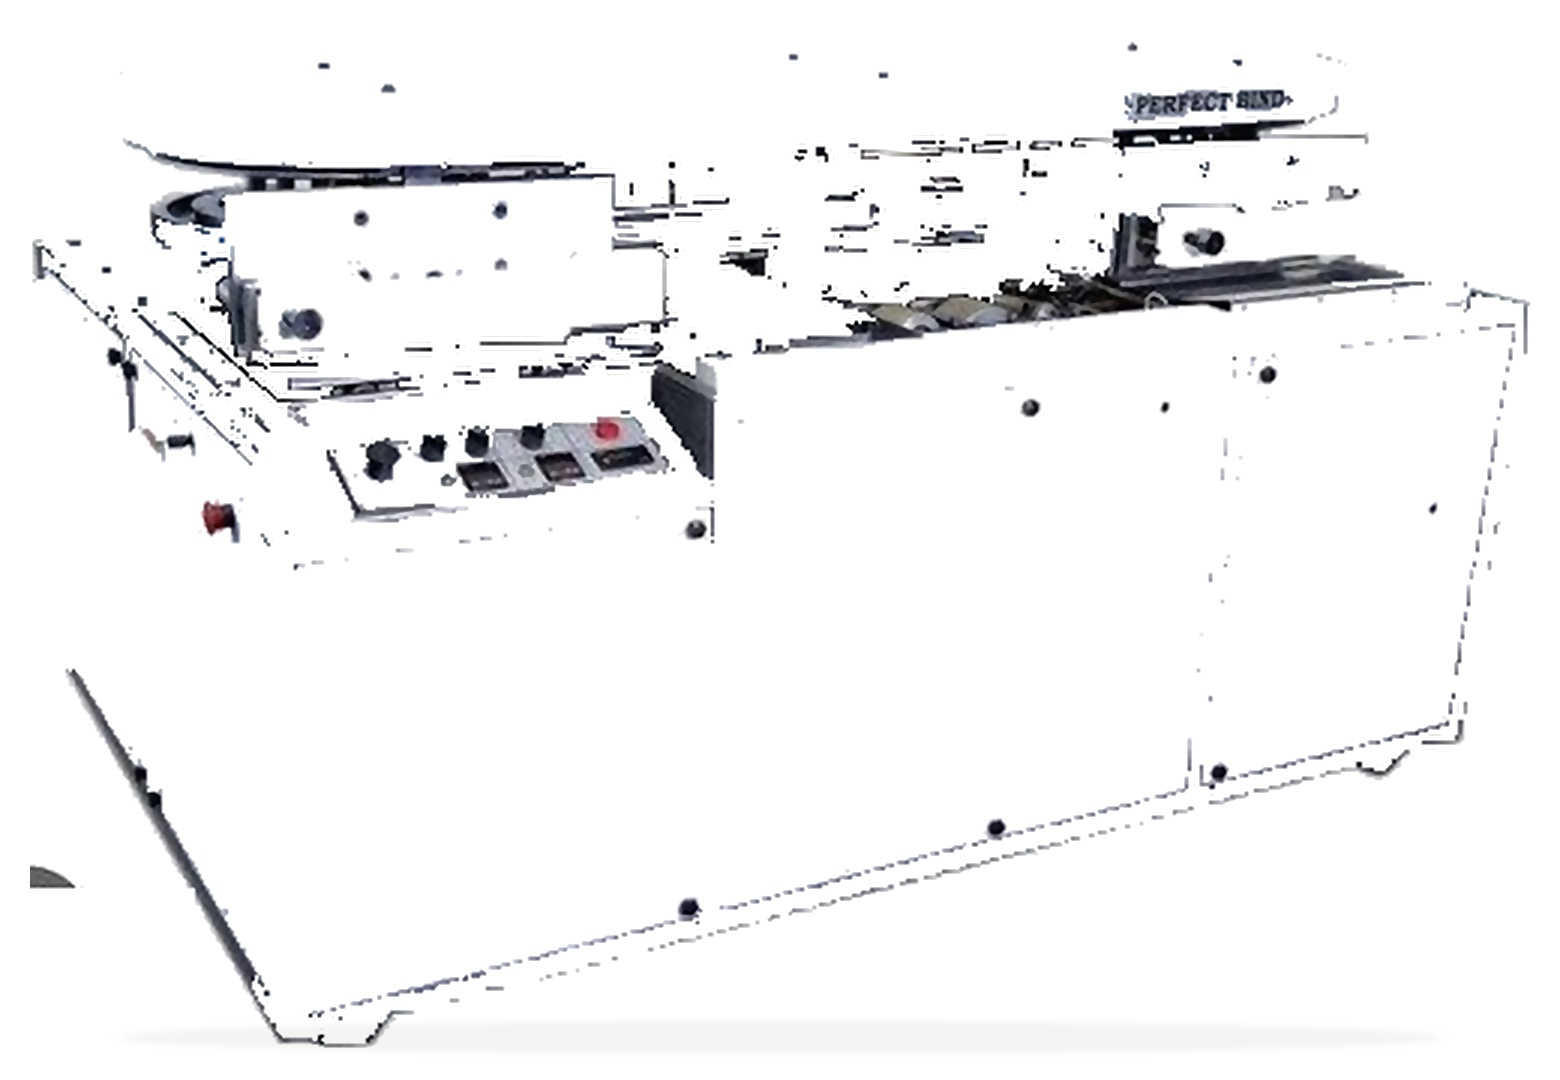
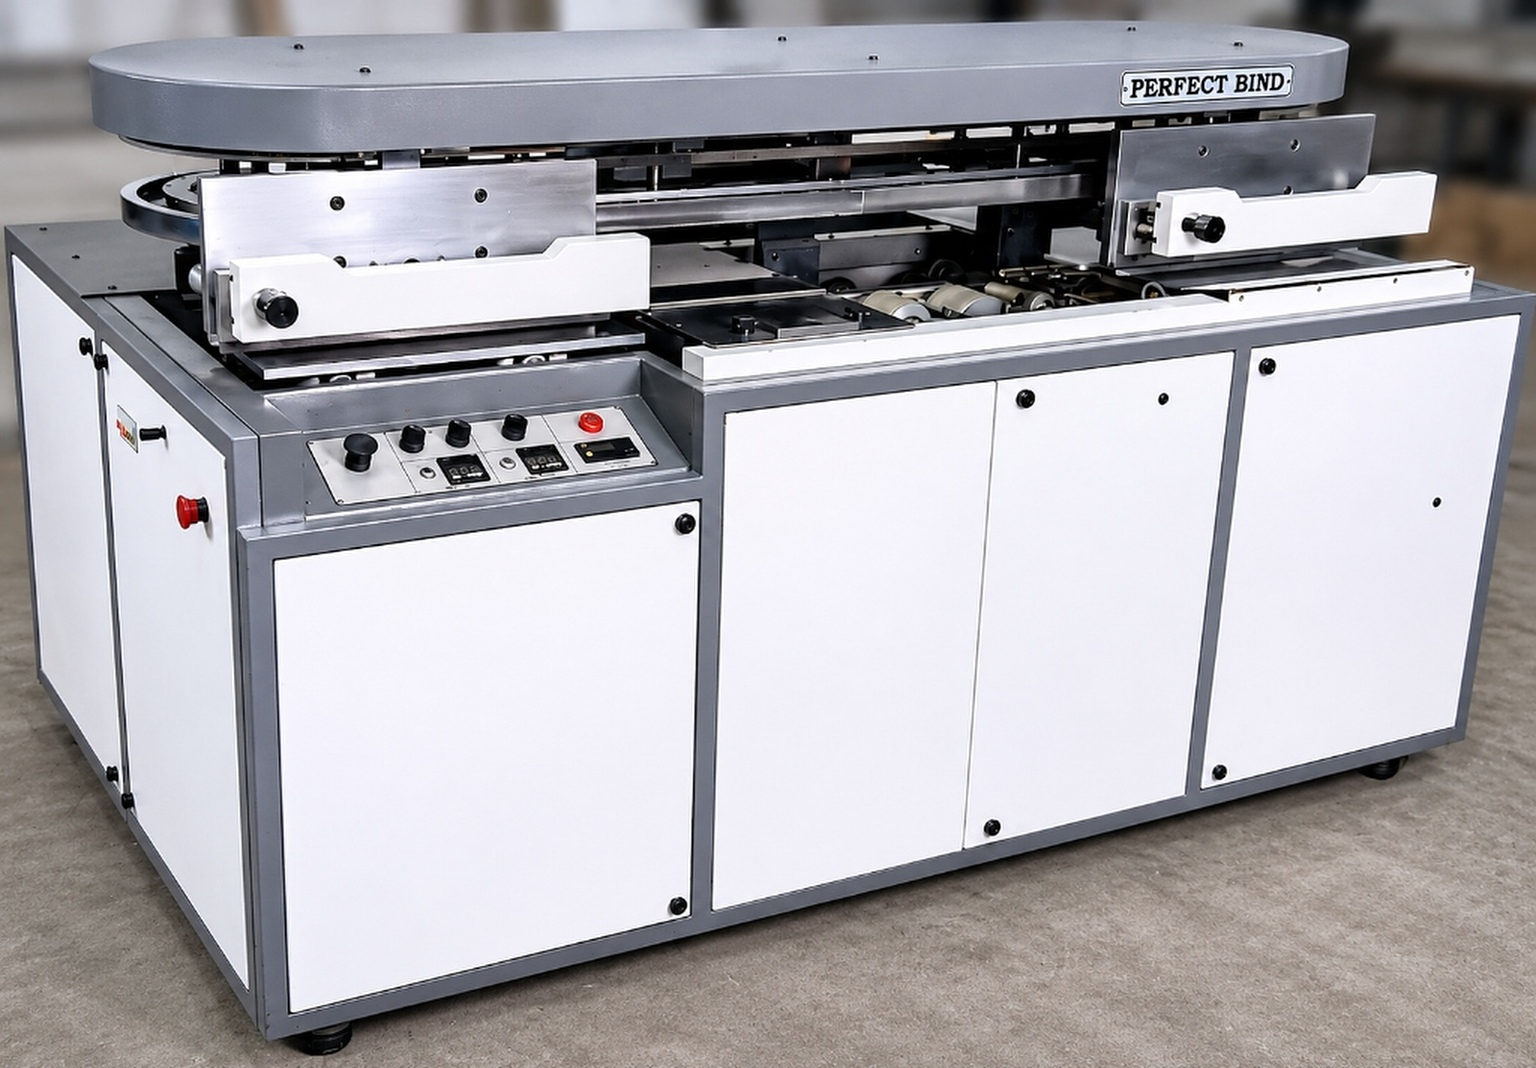
Update Multi-Clamp Perfect Binder with authentic factory-floor ultra-high-resolution photograph

diff --git a/src/data/machinery.ts b/src/data/machinery.ts
@@ -29,7 +29,7 @@ export const IMAGES = {
   hardCaseMaker: '/assets/machines/hard-case-making-machine.jpg',
   fileMaster: '/assets/machines/file-master-machine.jpg',
   glueBinding1Clamp: '/assets/machines/glue-binding-1-clamp.jpg',
-  glueBindingMultiClamp: '/assets/machines/glue-binding-multi-clamp-hd.jpg',
+  glueBindingMultiClamp: '/assets/machines/glue-binding-multi-clamp-factory.jpg',
   paperGluingMachine: '/assets/machines/paper-gluing-machine.jpg',
   rotaryCreasingMachine: '/assets/machines/rotary-creasing-machine.jpg',
   platenDieCutter: '/assets/machines/platen-die-cutting-machine.jpg',
